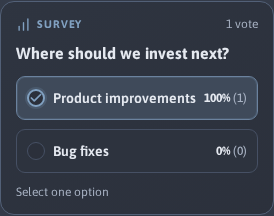
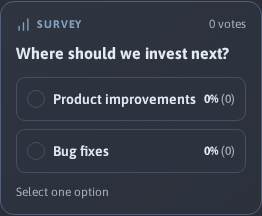
Restore filled survey check indicator

diff --git a/client/src/styles.css b/client/src/styles.css
@@ -7057,8 +7057,8 @@ html[data-mode="dark"] .day-divider-label {
 .survey-option-progress { position: absolute; inset: 0 auto 0 0; max-width: 100%; background: color-mix(in srgb, var(--accent) 13%, transparent); transition: width .25s ease; }
 .survey-option.selected .survey-option-progress { background: color-mix(in srgb, var(--accent) 22%, transparent); }
 .survey-option-content { position: relative; z-index: 1; width: 100%; min-height: 42px; gap: 8px; padding: 8px 10px; }
-.survey-option-check { display: inline-flex; align-items: center; justify-content: center; width: 18px; height: 18px; border: 1px solid var(--border); border-radius: 50%; background: var(--surface); color: transparent; flex: 0 0 18px; transition: border-color .15s ease, background .15s ease, color .15s ease, box-shadow .15s ease; }
-.survey-option.selected .survey-option-check { border: 2px solid var(--accent); background: var(--surface); color: var(--accent); box-shadow: 0 0 0 2px color-mix(in srgb, var(--accent) 18%, transparent); }
+.survey-option-check { display: inline-flex; align-items: center; justify-content: center; width: 18px; height: 18px; border: 1px solid var(--border); border-radius: 50%; color: var(--accent); flex: 0 0 18px; }
+.survey-option.selected .survey-option-check { border-color: var(--accent); background: var(--accent); color: var(--active-fg); }
 .survey-option-label { flex: 1; min-width: 0; font-size: 14px; font-weight: 600; overflow-wrap: anywhere; }
 .survey-option-count { color: var(--text); font-size: 12px; font-weight: 800; }
 .survey-option-count-detail { color: var(--muted); font-weight: 500; }
